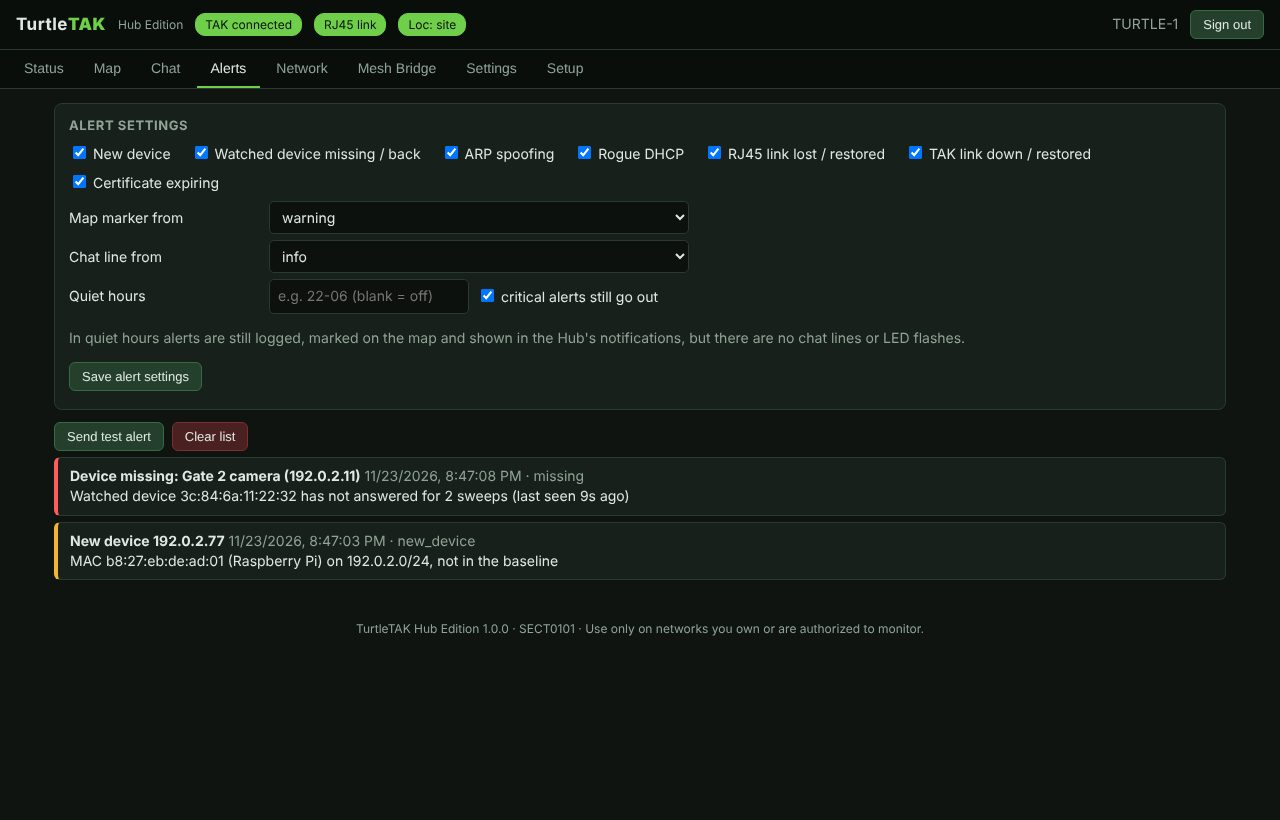
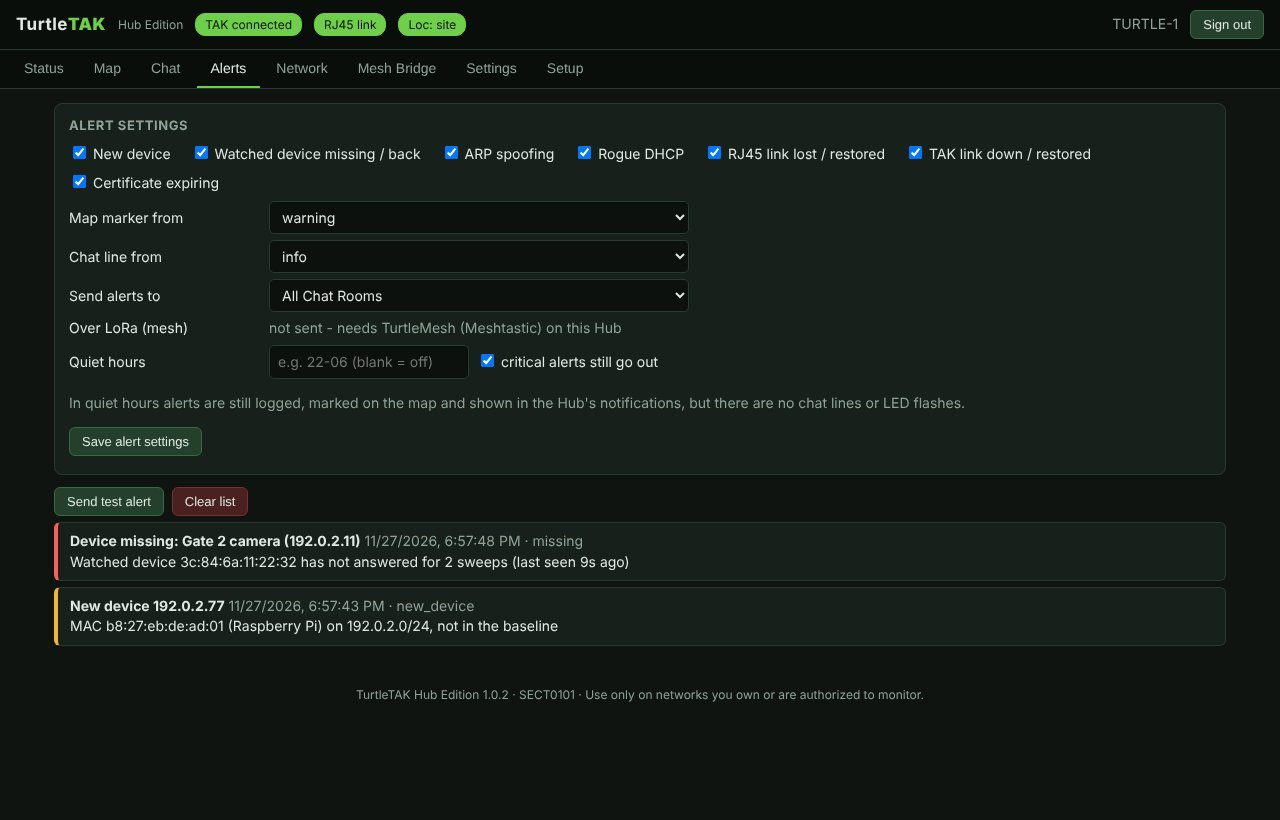
TurtleTAK Hub Edition 1.0.2

diff --git a/payloads/library/general/TurtleTAK-Hub/README.md b/payloads/library/general/TurtleTAK-Hub/README.md
@@ -12,11 +12,11 @@ Plug the Hub into a network and it shows up on the map as a sensor, with its sta
 
 | Feature | What it does |
 |---|---|
-| **Sensor on TAK** | Every `SA_INTERVAL` seconds (default 60), sends a CoT marker (`a-f-G-E-S`). Its remarks show the uplink, RJ45 link and address, Wi-Fi client, VPN, public IP, watch and bridge counts, location source and Hub health. If reports stop, the marker goes stale, so a dead or unplugged Hub shows on the map. |
-| **GeoChat** | Send to All Chat Rooms or one contact from the web console, and read incoming chat. Anyone can direct-message the Hub `status`, `where`, `scan`, `alerts` or `help` for a reply (`CHAT_COMMANDS_FROM` limits who). |
+| **Sensor on TAK** | Every `SA_INTERVAL` seconds (default 60), sends a CoT marker: a sensor (`a-f-G-E-S`) by default, or a facility, a team member in any of ATAK's 14 team colors, or a custom CoT type (Setup > On the TAK map). Its remarks show the uplink, RJ45 link and address, Wi-Fi client, VPN, public IP, watch and bridge counts, location source and Hub health. If reports stop, the marker goes stale, so a dead or unplugged Hub shows on the map. |
+| **GeoChat** | Send to All Chat Rooms or one person from the web console, and read incoming chat, with an unread count on the Chat tab. Click a sender's name or **Reply** to answer them directly; anyone who has messaged the Hub stays in the list, CloudTAK users too. Delete one message, or clear the chat. Anyone can direct-message the Hub `status`, `where`, `scan`, `alerts` or `help` for a reply (`CHAT_COMMANDS_FROM` limits who). |
 | **Network watch** | Sweeps the RJ45 network: nmap when installed, otherwise a ping sweep plus the ARP table. Each network gets its own baseline of known devices. |
 | **Alerts** | **New device** (yellow). **Gateway MAC changed** or **one MAC claiming the gateway and another IP**, the ARP-spoofing / MITM signs (red). **Rogue DHCP server** (red). **RJ45 link lost / restored**, for a pulled cable or a switch port turned off. **TAK link down / restored**. |
-| **Where alerts go** | A marker next to the Hub, a line to All Chat Rooms (or `ALERT_TO`), a Hub notification under the bell icon, optionally Cloud C² (`C2_NOTIFY`), and an LED flash. If TAK can't be reached, alerts and chat are **queued** and sent when it's back. |
+| **Where alerts go** | A marker next to the Hub, a chat line such as `[TURTLE-1] CRITICAL Rogue DHCP server - ...` to All Chat Rooms (or one person, picked under *Send alerts to*), a Hub notification under the bell icon, optionally Cloud C² (`C2_NOTIFY`), and an LED flash. If TAK can't be reached, alerts and chat are **queued** and sent when it's back. |
 | **Mesh SA bridge** | Off by default. Joins the ATAK mesh groups on the LAN (`239.2.3.1:6969` SA, `224.10.10.1:17012` chat) and forwards what it hears to the TAK Server. It understands both XML and TAK protocol v1 (protobuf). It can also repeat the server's traffic back onto the LAN, so phones on a closed network see everyone on the server and the server sees them. |
 | **Uplinks** | Brings up the Hub's out-of-band Wi-Fi client (`WIFI_SSID`) and its WireGuard client (`wg.conf`) from the settings. Shows NetBird status if `netbird` is installed. |
 | **Device names and watched devices** | Name devices in the Network tab ("Gate 2 camera") so alerts use the name. **Watch** the ones that must stay up (cameras, NVR, door controllers) and a **Device missing** alert (red) goes out when one stops answering for `MISSING_AFTER` sweeps, with **Device back** when it returns. |
@@ -25,7 +25,7 @@ Plug the Hub into a network and it shows up on the map as a sensor, with its sta
 | **Site survey data package** | The device list (with names), baseline, recent alerts and a summary, as a TAK data package with a survey marker at the Hub. Send it to everyone or one contact, upload it to the server's data packages only, or download it. |
 | **Clone to another Hub** | One `.turtletak` file holds settings, certificates, sites, device names and baselines. Load it on another Hub with a new callsign: that Hub keeps its own web password and gets its own UID. The file holds your certificates, so keep it private. |
 | **Offline map** | The web map (Leaflet, built in) gets its tiles through the Hub and keeps them, on USB storage when one is attached. **Save this area offline** stores the current view down to zoom 16 (USGS Topo, Imagery or Imagery + Topo, US coverage). OpenStreetMap is offered live only, since its rules don't allow bulk saving. |
-| **Web console** | Status, Map, Chat, Alerts, Network, Mesh Bridge, Settings and Setup on port **8484**, on every interface: USB-C host, RJ45, Wi-Fi and VPN. Password protected. |
+| **Web console** | Status, Map, Chat, Alerts, Network, Mesh Bridge, Settings and Setup on port **8484**, on every interface: USB-C host, RJ45, Wi-Fi and VPN. Password protected. Setup has *Test connection* and *Set clock now*. |
 
 ## Screenshots
 
@@ -93,19 +93,26 @@ Running the payload again restarts the service with that version. The service an
 
 Set `LED: 0` to keep the LED dark.
 
+## Good to know
+
+- **Hub firmware bugs** reported in the Hak5 Discord: the Management AP's channel can stay stuck after you change it, and a reboot from the Hub's web UI can hang the Hub. TurtleTAK never changes the Management AP or reboots the Hub. If you change those yourself, power-cycle the Hub if it doesn't come back.
+- **Cloud C²**: from Cloud C² 3.5.2 the Hub role's permissions are off by default. Turn them on for the Hub in Cloud C² if you use `C2_NOTIFY`.
+- **eMudhra root certificates** (October 2026): TurtleTAK checks your TAK Server only against the truststore you load, not the Hub's system certificate list, so the TAK link isn't affected. The system list is only used for the map tiles and the public IP lookup. Hak5 posted `remove-emudhra-certs.sh` in their Discord to remove the affected roots from Hak5 devices.
+
 ## Settings
 
-Every setting is in `/root/turtletak/default.cfg` as `KEY: value`. Change them in the web console's **Settings** tab or over SSH. The most used ones:
+Every setting is in `/root/turtletak/default.cfg` as `KEY: value`. Change them in the web console's **Settings** tab or over SSH. The most used ones are below, and [All settings](#all-settings) lists every key.
 
 | Key | Default | |
 |---|---|---|
 | `CALLSIGN` | `TURTLE-1` | Name on the map |
+| `COT_TYPE` / `TEAM` | `a-f-G-E-S` / `Cyan` | Marker type and team color (Setup > On the TAK map) |
 | `SA_INTERVAL` | `60` | Seconds between reports |
 | `LOC_MODE` | `auto` | Primary location source: `auto`, `radio`, `gps`, `atak`, `site`, `manual` or `ip` |
 | `WATCH_INTERVAL` | `300` | Seconds between device sweeps |
 | `WATCH_IFACE` | `auto` | RJ45 interface; auto-detected, shown in Setup check |
 | `DHCP_KNOWN` | | Allowed DHCP servers (blank = learn the first) |
-| `ALERT_TO` | | Blank = All Chat Rooms, or one callsign |
+| `ALERT_TO` | | Blank = All Chat Rooms, or one callsign (Alerts > *Send alerts to*) |
 | `BRIDGE_UP` / `BRIDGE_DOWN` | `0` / `0` | Mesh bridge directions |
 | `WIFI_SSID` / `WIFI_KEY` | | Out-of-band Wi-Fi uplink |
 | `WG_CONF` | | WireGuard config path (set by uploading `wg.conf`) |
@@ -117,6 +124,96 @@ Every setting is in `/root/turtletak/default.cfg` as `KEY: value`. Change them i
 | `CERT_WARN_DAYS` | `30` | Days of warning before the certificate expires |
 | `MAP_SOURCE` / `TILE_CACHE_MB` | `usgs_topo` / `500` | Web map and its tile cache limit |
 | `WEB_PORT` | `8484` | Web console port (never 1471, the Hub's own UI) |
+
+### All settings
+
+Every key in `default.cfg`, in the order the file lists them. The Settings tab shows the same list.
+
+| Key | Default | |
+|---|---|---|
+| **TAK Server** | | |
+| `TAK_HOST` | `takserver.example.com` | TAK Server name or IP |
+| `TAK_PROTO` | `tls` | `tls` (client certificate), `tcp`, or `udp` (send only) |
+| `TAK_PORT` | `8089` | Streaming port (TLS 8089, TCP 8087 or 8088) |
+| `TAK_VERIFY_HOST` | `0` | `1` = also check the server's name against its certificate |
+| `CLIENT_PASSWORD` | `atakatak` | Client certificate (`.p12`) password |
+| `CA_PASSWORD` | `atakatak` | Truststore (`.p12`) password, can differ from the client one |
+| `API_PORT` | `8443` | Server API port: data package uploads, and the time for *Set clock now* |
+| `ENROLL_PORT` | `8446` | Certificate enrollment port |
+| `CALLSIGN` | `TURTLE-1` | Name on the map |
+| `UID` | | Made once from the Hub; leave blank |
+| `TEAM` | `Cyan` | Team color, one of ATAK's 14 (Setup > On the TAK map) |
+| `ROLE` | `Team Member` | Role sent with the marker |
+| `COT_TYPE` | `a-f-G-E-S` | Marker type: `a-f-G-E-S` sensor, `a-f-G-I` facility, `a-f-G-U-C` team member, or a custom CoT type |
+| `SA_INTERVAL` | `60` | Seconds between reports |
+| **Location** | | |
+| `LOC_MODE` | `auto` | Primary source: `auto`, `radio`, `gps`, `atak`, `site`, `manual` or `ip`; the rest stay as fallback |
+| `SITE` | | Saved site in use |
+| `MANUAL_LAT` / `MANUAL_LON` | | Manual position |
+| `MY_ATAK` | | Your ATAK callsign, for *Anchor to my ATAK* |
+| `ANCHOR_MAX_AGE` | `1800` | Seconds your ATAK position stays usable |
+| `RADIO_GPS_MAX_AGE` | `1800` | Seconds TurtleMesh's radio GPS fix stays usable |
+| `GPS_DEVICE` | `auto` | `auto`, a port such as `/dev/ttyACM0`, or `off` |
+| `GPS_BAUD` | `9600` | USB GPS speed |
+| `GPS_CLAIM_USB` | `1` | Claim the dynamic USB port for the Hub (GPS or radio) |
+| `IPGEO` | `1` | Allow the public IP location |
+| `IPGEO_URL` | `https://ipinfo.io/json` | Where the public IP location comes from |
+| **Network watch** | | |
+| `WATCH` | `1` | Device sweeps on the RJ45 network |
+| `WATCH_IFACE` | `auto` | RJ45 interface; auto-detected, shown in Setup check |
+| `WATCH_INTERVAL` | `300` | Seconds between device sweeps |
+| `WATCH_MAX_HOSTS` | `256` | Largest sweep (a /24); bigger subnets sweep the Hub's /24 |
+| `WATCH_RATE` | `50` | nmap `--max-rate`, when nmap is installed |
+| `AUTO_BASELINE` | `1` | The first sweep of a new network becomes its baseline |
+| `ARP_WATCH` | `1` | Gateway MAC changes and duplicate MACs |
+| `DHCP_WATCH` | `1` | Rogue DHCP server check |
+| `DHCP_INTERVAL` | `900` | Seconds between DHCP checks |
+| `DHCP_KNOWN` | | Allowed DHCP servers, comma list (blank = learn the first) |
+| `LINK_WATCH` | `1` | RJ45 link lost / restored |
+| `UPLINK_WATCH` | `1` | Alert when the TAK link is down longer than `UPLINK_GRACE` |
+| `UPLINK_GRACE` | `120` | Seconds before *TAK link down* |
+| `MISSING_AFTER` | `2` | Sweeps a watched device can miss before *Device missing* |
+| **Alerts** | | |
+| `ALERTS_ON` | all types | Alert types that are raised: `new_device`, `missing`, `arp`, `dhcp`, `link`, `uplink`, `cert` |
+| `ALERT_MARKER` | `1` | Alert markers on the map |
+| `MARKER_MIN_LEVEL` | `warning` | Lowest level that gets a map marker: `info`, `warning` or `critical` |
+| `ALERT_CHAT` | `1` | Alert lines in chat |
+| `CHAT_MIN_LEVEL` | `info` | Lowest level that gets a chat line |
+| `QUIET_HOURS` | | For example `22-06`: no chat lines or LED flashes then (still logged and marked) |
+| `QUIET_CRITICAL` | `1` | Critical alerts still go out in quiet hours |
+| `CERT_WARN_DAYS` | `30` | Days of warning before the client certificate expires |
+| `ALERT_TO` | | Blank = All Chat Rooms, or one callsign (Alerts > *Send alerts to*) |
+| `ALERT_STALE_HOURS` | `12` | Hours an alert marker stays on the map |
+| `HUB_NOTIFY` | `1` | Hub notifications (bell icon) |
+| `C2_NOTIFY` | `0` | Cloud C² notifications too |
+| **Mesh SA bridge** | | |
+| `BRIDGE_UP` | `0` | Forward ATAK mesh SA and chat on the LAN to the TAK Server |
+| `BRIDGE_DOWN` | `0` | Repeat TAK Server traffic onto the LAN mesh |
+| `BRIDGE_IFACES` | `auto` | Every IPv4 interface except loopback and VPN, or a comma list |
+| `BRIDGE_SA_GROUP` | `239.2.3.1:6969` | Mesh SA group |
+| `BRIDGE_CHAT_GROUP` | `224.10.10.1:17012` | Mesh chat group |
+| `BRIDGE_MIN_GAP` | `5` | Seconds between forwarded SA reports from one device |
+| `BRIDGE_DOWN_TYPES` | `a-f,a-h,a-n,a-u,b-t-f,b-m` | CoT types repeated onto the LAN |
+| **Map** | | |
+| `MAP_SOURCE` | `usgs_topo` | `usgs_topo`, `usgs_imagery`, `usgs_hybrid` or `osm` (live only, never saved in bulk) |
+| `TILE_CACHE_MB` | `500` | Map tile cache limit (on USB storage when one is attached) |
+| `TILE_MAX_DOWNLOAD` | `20000` | Most tiles one *Save this area offline* may fetch |
+| **Uplinks** | | |
+| `WIFI_SSID` / `WIFI_KEY` | | Out-of-band Wi-Fi uplink (the Hub joins this network as a client) |
+| `WIFI_ENC` | `psk2` | `open`, `psk`, `psk2` or `sae` |
+| `WIFI_COUNTRY` | `US` | Wi-Fi country code |
+| `WG_CONF` | | WireGuard config path (set by uploading `wg.conf`) |
+| **Hub** | | |
+| `LED` | `1` | `0` = keep the LED dark |
+| `RUN_AT_BOOT` | `1` | Start TurtleTAK when the Hub boots |
+| `CHAT_COMMANDS` | `1` | Answer `status`, `where`, `scan`, `alerts` and `help` sent to the Hub |
+| `CHAT_COMMANDS_FROM` | | Blank = anyone on the server, or a comma list of callsigns |
+| `CLOCK_SYNC` | `1` | *Set clock now* may set the Hub's clock (from the TAK Server, the web, then NTP) |
+| `WEB` | `1` | Web console on |
+| `WEB_PORT` | `8484` | Web console port (never 1471, the Hub's own UI) |
+| `WEB_BIND` | `0.0.0.0` | Every interface: USB-C host, RJ45, Wi-Fi and VPN |
+| `WEB_TLS` | `0` | `1` = HTTPS with a self-signed certificate (needs `openssl`) |
+| `WEB_PASS_HASH` | | Web console password, set with *Change password* |
 
 ## Files
 

diff --git a/README.md b/README.md
@@ -8,7 +8,7 @@ Community payloads that connect the **Hak5 LAN Turtle** family to the **TAK** ec
 
 **Payloads here are written in Bash + Python for the LAN Turtle Hub. They are community payloads and are not supported or guaranteed by Hak5.** See [Legal](#legal).
 
-Also see [TurtleMesh](https://github.com/SECT0101/TurtleMesh) for Meshtastic on the same Hub, [PagerTAK](https://github.com/SECT0101/PagerTAK) for the WiFi Pineapple Pager and [SharkTAKDisplay](https://github.com/SECT0101/SharkTAKDisplay) for the Shark Jack Display.
+Also see [TurtleMesh](https://github.com/SECT0101/TurtleMesh) for Meshtastic on the same Hub, [TurtleShell](https://github.com/SECT0101/TurtleShell) to run both from one payload, [TurtleTAK Classic](https://github.com/SECT0101/TurtleTAK-Classic) for the original LAN Turtle and LAN Turtle SD, [PagerTAK](https://github.com/SECT0101/PagerTAK) for the WiFi Pineapple Pager and [SharkTAKDisplay](https://github.com/SECT0101/SharkTAKDisplay) for the Shark Jack Display.
 
 ---
 
@@ -22,7 +22,7 @@ ATAK (left) and WinTAK (right): the Hub as a sensor marker, its alert markers ar
 
 | Edition | Device | Version | Description |
 |---|---|---|---|
-| [TurtleTAK Hub Edition](payloads/library/general/TurtleTAK-Hub/) | LAN Turtle Hub | 1.0.1 | The Hub on TAK as a facility sensor: position and status reports and GeoChat; network watch alerts (new devices, watched devices going missing, ARP spoofing, rogue DHCP, link tamper, TAK link down and certificate expiry) with per-type settings and quiet hours; device names, site survey data packages and clone packages; an ATAK mesh SA bridge; TAK setup like ATAK (connection package, certificates with their own passwords, or enrollment) with no openssl needed; Wi-Fi and WireGuard uplinks; and a web console on port 8484 with an offline map. |
+| [TurtleTAK Hub Edition](payloads/library/general/TurtleTAK-Hub/) | LAN Turtle Hub | 1.0.2 | The Hub on TAK as a facility sensor: position and status reports and GeoChat; network watch alerts (new devices, watched devices going missing, ARP spoofing, rogue DHCP, link tamper, TAK link down and certificate expiry) with per-type settings and quiet hours; device names, site survey data packages and clone packages; an ATAK mesh SA bridge; TAK setup like ATAK (connection package, certificates with their own passwords, or enrollment) with no openssl needed; Wi-Fi and WireGuard uplinks; and a web console on port 8484 with an offline map. |
 
 ## Repository layout
 

diff --git a/CHANGELOG.md b/CHANGELOG.md
@@ -2,6 +2,15 @@
 
 TurtleTAK versions (the payload in `payloads/library/general/TurtleTAK-Hub`). Newest first.
 
+## Hub Edition 1.0.2
+- **Marker type and team color in Setup**: sensor (`a-f-G-E-S`, the default), facility (`a-f-G-I`), team member (`a-f-G-U-C`) in any of ATAK's 14 team colors, or a custom CoT type, the same choices as TurtleTAK Classic. The new marker goes out as soon as you save.
+- **Chat in the web console**: click a sender's name or **Reply** to answer them directly, an unread count on the Chat tab, and delete one message or clear the chat.
+- **Who you can message**: every friendly TAK contact, mesh node and anyone who has messaged the Hub (CloudTAK users too), not only team members.
+- **Send alerts to** on the Alerts tab picks All Chat Rooms or one person (`ALERT_TO`).
+- Critical alerts in chat now read `[TURTLE-1] CRITICAL <title> - <detail>`, the same wording as the other SECT0101 TAK payloads (was `ALERT`).
+- **Set clock now** in Setup reads the time from the TAK Server, the web or NTP (`CLOCK_SYNC`), and the clock shows on the Status tab.
+- README: every setting is listed, plus notes on two Hub firmware bugs, Cloud C² Hub permissions and the eMudhra root certificates.
+
 ## Hub Edition 1.0.1
 - **Location: primary source with fallback.** Setup > Location picks the primary source; the rest stay as fallback in order. New first source: the **Meshtastic radio's GPS**, shared by TurtleMesh while it runs on the same Hub.
 - **USB GPS leaves TurtleMesh's radio alone.** With TurtleMesh on a USB radio, the GPS reader no longer opens the radio's serial port.
